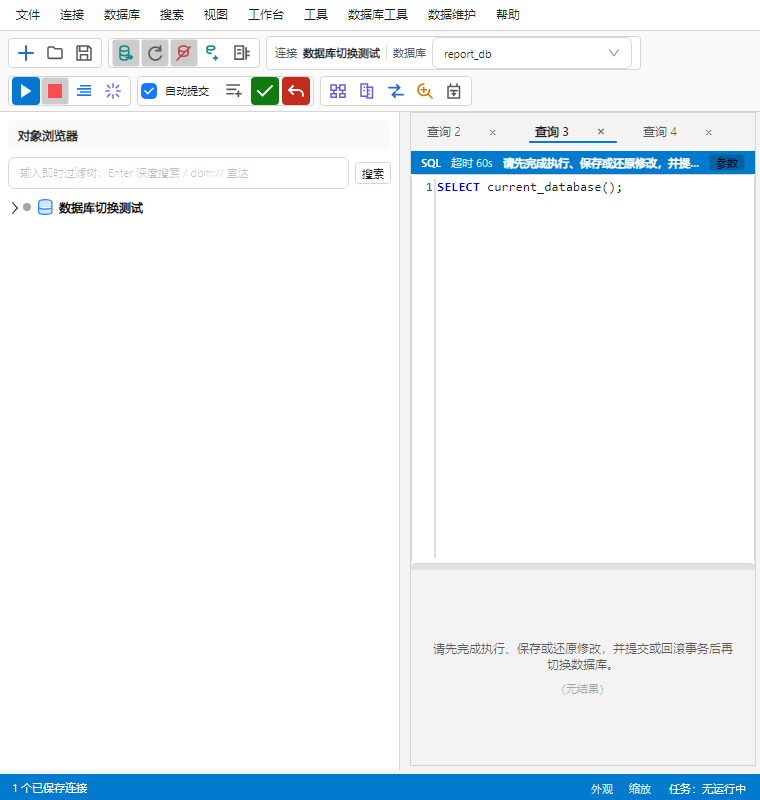
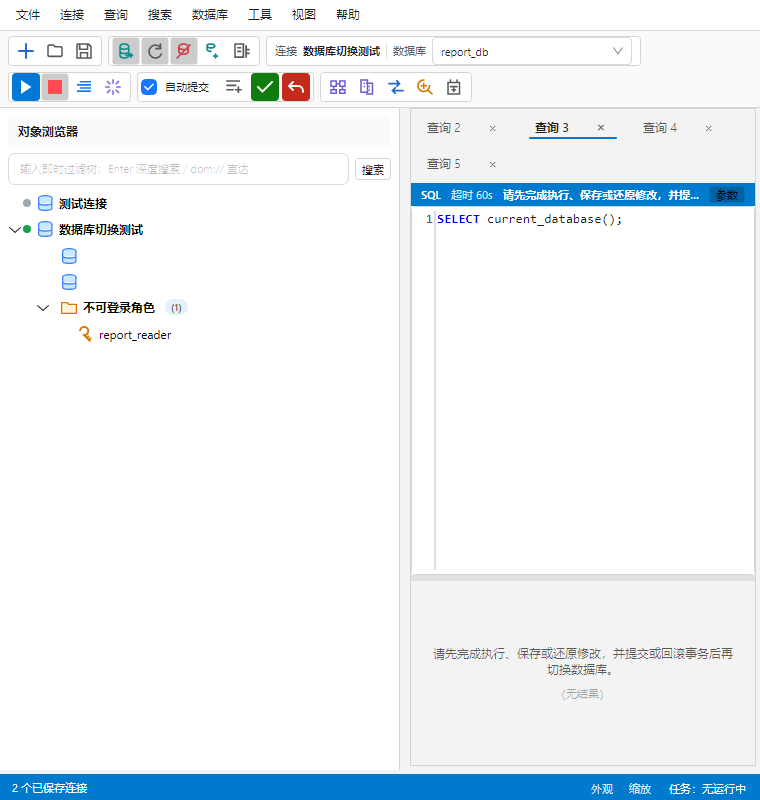
fix(workbench): keep query toolbar rows aligned

Changed region(s): [[0.0, 0.0, 0.9987, 0.4375], [0.575, 0.7812, 0.9684, 0.875], [0.5447, 0.6875, 0.9987, 0.7188]]

diff --git a/DatabaseManager.Avalonia/DatabaseManager.Avalonia/Smoke/P0SmokeHarness.cs b/DatabaseManager.Avalonia/DatabaseManager.Avalonia/Smoke/P0SmokeHarness.cs
@@ -122,7 +122,7 @@ public static class P0SmokeHarness
             await Capture(new RecordEditorWindow(tab, tab.Rows[0], item), "record");
             await Capture(new ResultCompareWindow(tab.ResultSnapshots.ToArray()), "compare");
             var server = new ConnectionItem { Id = "postgres-profile", Name = "数据库切换测试", DatabaseType = "Postgres", Database = "app_db" };
-            var serverConnections = new FixtureConnections(server) { ReadGate = new() };
+            var serverConnections = new FixtureConnections(server, item) { ReadGate = new() };
             var serverQuery = new DefaultQueryService(serverConnections);
             var schema = new DefaultDbSchemaService(serverConnections);
             var explorer = new ObjectsExplorerViewModel(schema);
@@ -175,8 +175,11 @@ public static class P0SmokeHarness
                     .Single(c => ReferenceEquals(c.ItemsSource, queryTab.AvailableDatabases));
                 if (!selector.IsVisible || !Equals(selector.SelectedItem, "app_db"))
                     throw new InvalidOperationException("Database selector must display its initial context.");
-                if (!selector.GetVisualAncestors().OfType<Border>().Any(b => b.Name == "MainToolbarPanel"))
-                    throw new InvalidOperationException("Query database selector must be in the main toolbar.");
+                var borders = selector.GetVisualAncestors().OfType<Border>().ToArray();
+                var toolbar = borders.Single(b => b.Name == "MainToolbarPanel");
+                var contextGroup = borders.First(b => b.Classes.Contains("toolbar-group"));
+                var toolbarHeight = toolbar.Bounds.Height;
+                var contextHeight = contextGroup.Bounds.Height;
                 selector.SelectedItem = "report_db";
                 await Task.Delay(100);
                 if (queryTab.DatabaseName != "report_db") throw new InvalidOperationException("Database selection binding failed.");
@@ -198,6 +201,24 @@ public static class P0SmokeHarness
                 await Task.Delay(100);
                 if (!Equals(selector.SelectedItem, "report_db"))
                     throw new InvalidOperationException("Switching tabs must preserve each database context.");
+                var sqliteTab = mainVm.OpenSqlInNewTab(item.Name, "SELECT 1;", item.Database);
+                await Task.Delay(100);
+                if (!ReferenceEquals(selector.DataContext, sqliteTab) || selector.IsVisible)
+                    throw new InvalidOperationException("The SQLite query tab must hide the database selector.");
+                if (toolbar.Bounds.Height != toolbarHeight || contextGroup.Bounds.Height != contextHeight)
+                    throw new InvalidOperationException($"Query tabs must use the same toolbar height (PostgreSQL: {toolbarHeight}, SQLite: {toolbar.Bounds.Height}).");
+                mainVm.SelectedQueryTab = queryTab;
+                await Task.Delay(100);
+                if (!selector.IsVisible || !Equals(selector.SelectedItem, "report_db") || toolbar.Bounds.Height != toolbarHeight)
+                    throw new InvalidOperationException("Returning to PostgreSQL must restore the database selector without changing the toolbar height.");
+                mainVm.CurrentSchema = "public";
+                mainVm.SchemaSelectorVisible = true;
+                await Task.Delay(100);
+                var schemaSelector = toolbar.GetVisualDescendants().OfType<AtomUI.Desktop.Controls.TextBox>().Single();
+                if (!schemaSelector.IsEffectivelyVisible || schemaSelector.Text != "public"
+                    || schemaSelector.Bounds.Height != selector.Bounds.Height || contextGroup.Bounds.Height != contextHeight)
+                    throw new InvalidOperationException("The Schema field must match the database selector height without expanding the context group.");
+                mainVm.SchemaSelectorVisible = false;
                 databaseWindow.Width = 760;
                 await Task.Delay(200);
                 var position = selector.TranslatePoint(default, databaseWindow);

diff --git a/DatabaseManager.Avalonia/docs/smoke/README.md b/DatabaseManager.Avalonia/docs/smoke/README.md
@@ -52,9 +52,9 @@ dotnet run --project DatabaseManager.Avalonia/DatabaseManager.Avalonia -c Releas
 
 ## 查询工具栏布局（2026-11-07）
 
-连接名和数据库选择移至主工具栏，绑定当前查询标签；长名称提供悬停提示，窄窗口按功能组换行。SQL 状态条保留超时、消息和参数入口，长消息省略显示。
+连接名和数据库选择移至主工具栏，绑定当前查询标签。数据库选择框、Schema 输入框和工具栏按钮等高，长连接名提供悬停提示，窄窗口按功能组换行。SQL 状态条保留超时、消息和参数入口，长消息省略显示。
 
-以下截图由隔离的 `--smoke --p0` 生成，无需真实服务器连接。检查覆盖标签切换、切库绑定、执行期间拒绝切库后恢复显示，以及 760px 窄窗口可见性。
+以下截图由隔离的 `--smoke --p0` 生成，无需真实服务器连接。检查覆盖 PostgreSQL 和 SQLite 标签来回切换时的单行工具栏高度、Schema 输入框高度、切库绑定、执行期间拒绝切库后恢复显示，以及 760px 窄窗口可见性。
 
 | 截图 | 布局 |
 | --- | --- |
